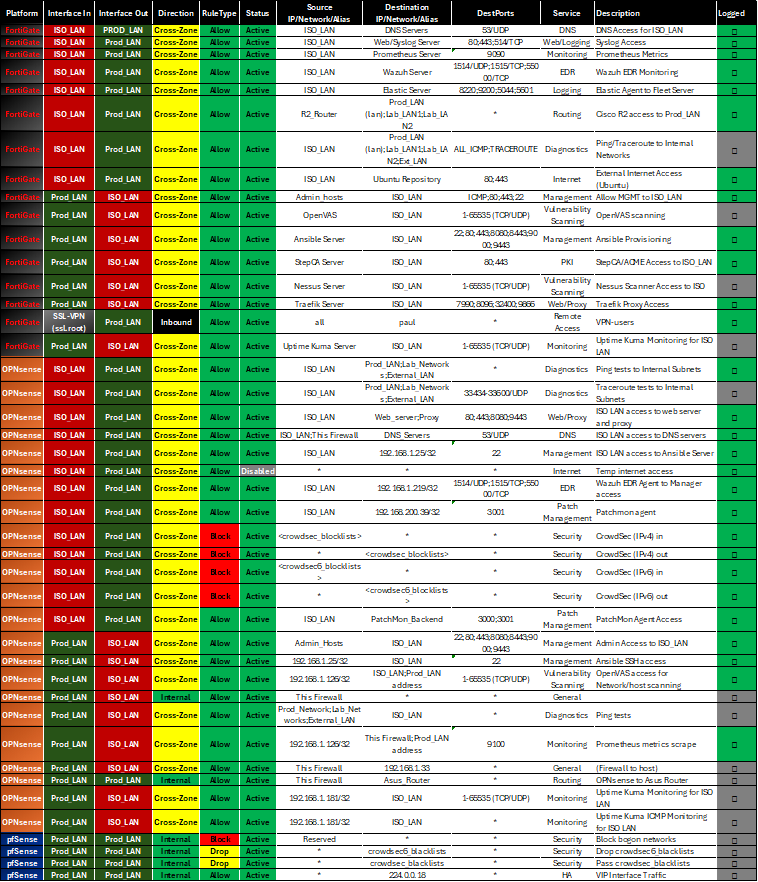
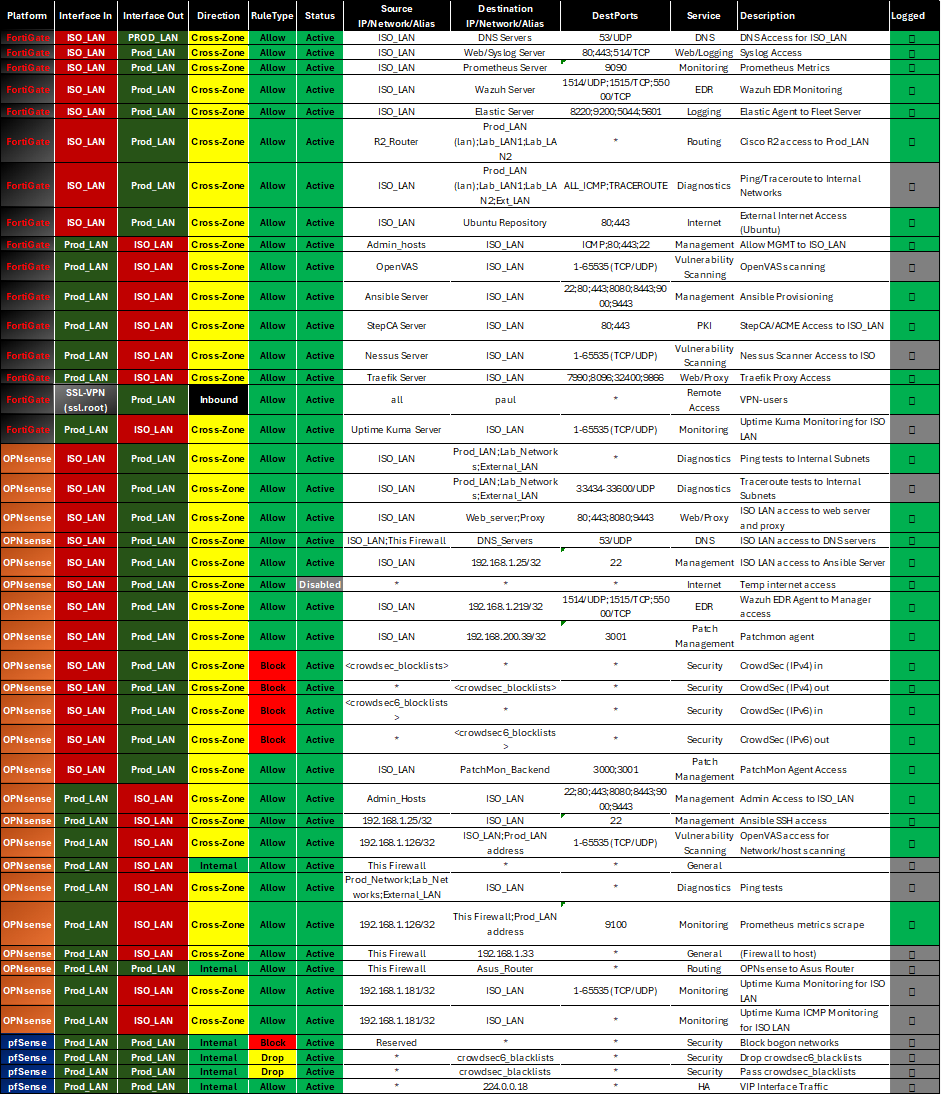
updates

Changed region(s): [[0.0, 0.0, 1.0, 1.0]]

diff --git a/docs/projects/homelab/03-network.md b/docs/projects/homelab/03-network.md
@@ -404,14 +404,14 @@ Cross-zone traffic requires explicit firewall rules with service-level restricti
 
 #### FortiGate Rule Configuration
 <figure>
-    <img src="/Career_Projects/assets/screenshots/fw-rule-table.png" alt="Lab FW Rule Table">
-    <figcaption>Lab Firewall Rules Table (partial)</figcaption>
+    <img src="/Career_Projects/assets/screenshots/fortigate-rules.png" alt="Lab FW Rule Table">
+    <figcaption>FortiGate Rule Configuration</figcaption>
 </figure>
 
 ### Firewall Rule Table 
 <figure>
-    <img src="/Career_Projects/assets/screenshots/fortigate-rules.png" alt="pfSense Firewall Logs">
-    <figcaption>FortiGate Rule Configuration</figcaption>
+    <img src="/Career_Projects/assets/screenshots/fw-rule-table.png" alt="pfSense Firewall Logs">
+    <figcaption>Lab Firewall Rules Table (partial)</figcaption>
 </figure>
 ---
 
